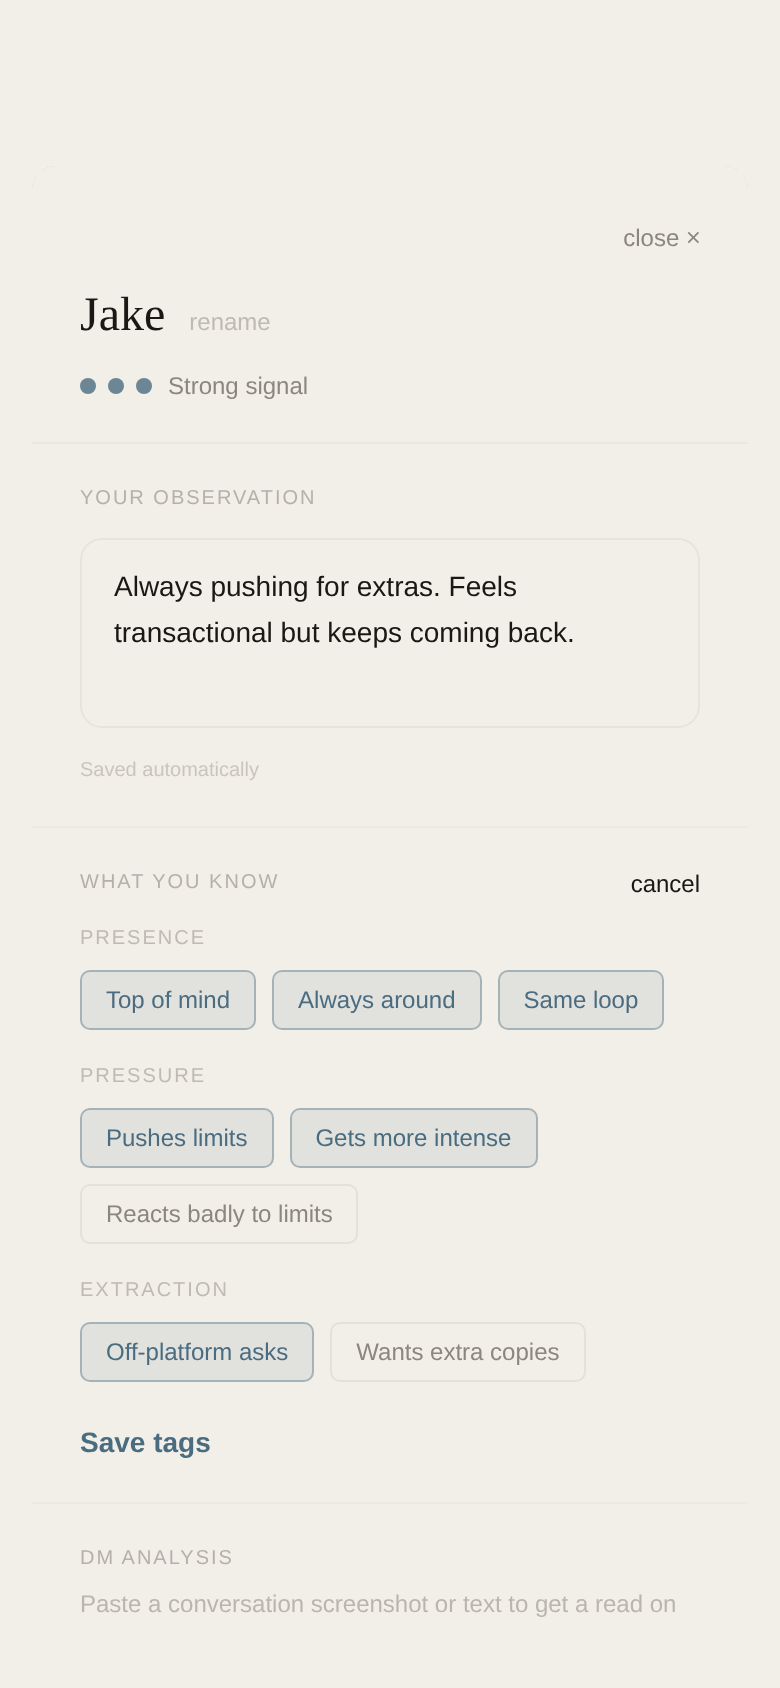
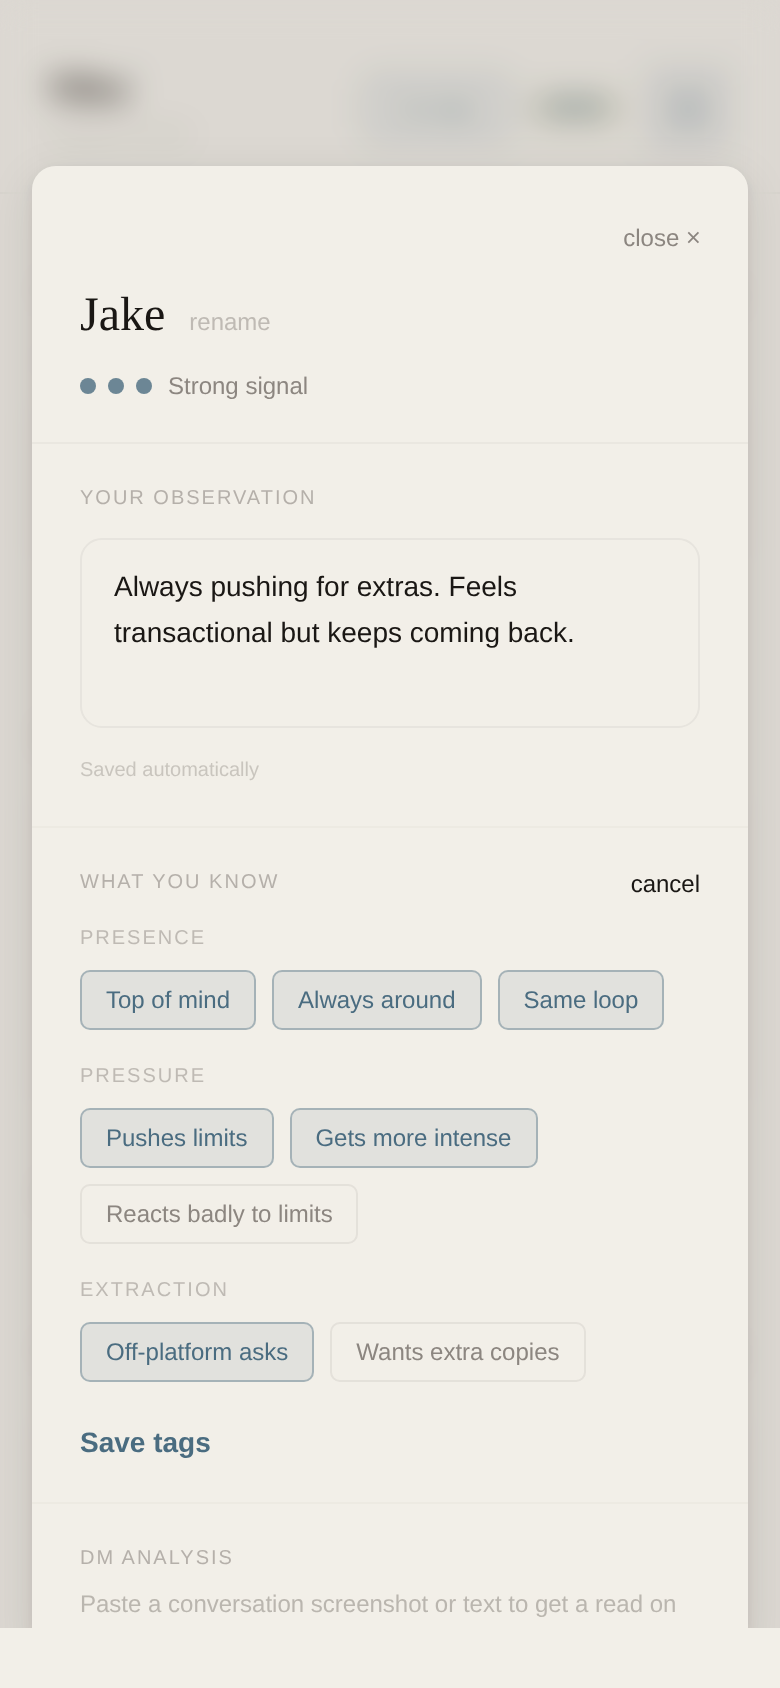
fix: revert screenshots to originals; remove ::after gradient overlay on caption text

Changed region(s): [[0.0, 0.0, 1.0, 0.9858]]

diff --git a/index.html b/index.html
@@ -442,16 +442,7 @@
       box-shadow: 0 8px 32px rgba(26,23,20,0.07);
       position: relative;
     }
-    .screen-card::after {
-      content: '';
-      position: absolute;
-      left: 0;
-      right: 0;
-      bottom: 0;
-      height: 40px;
-      background: linear-gradient(to bottom, transparent, #C8C9A8);
-      pointer-events: none;
-    }
+    /* screen-card::after gradient removed — was overlaying caption text */
     .screen-card img {
       width: 100%;
       height: 480px;
